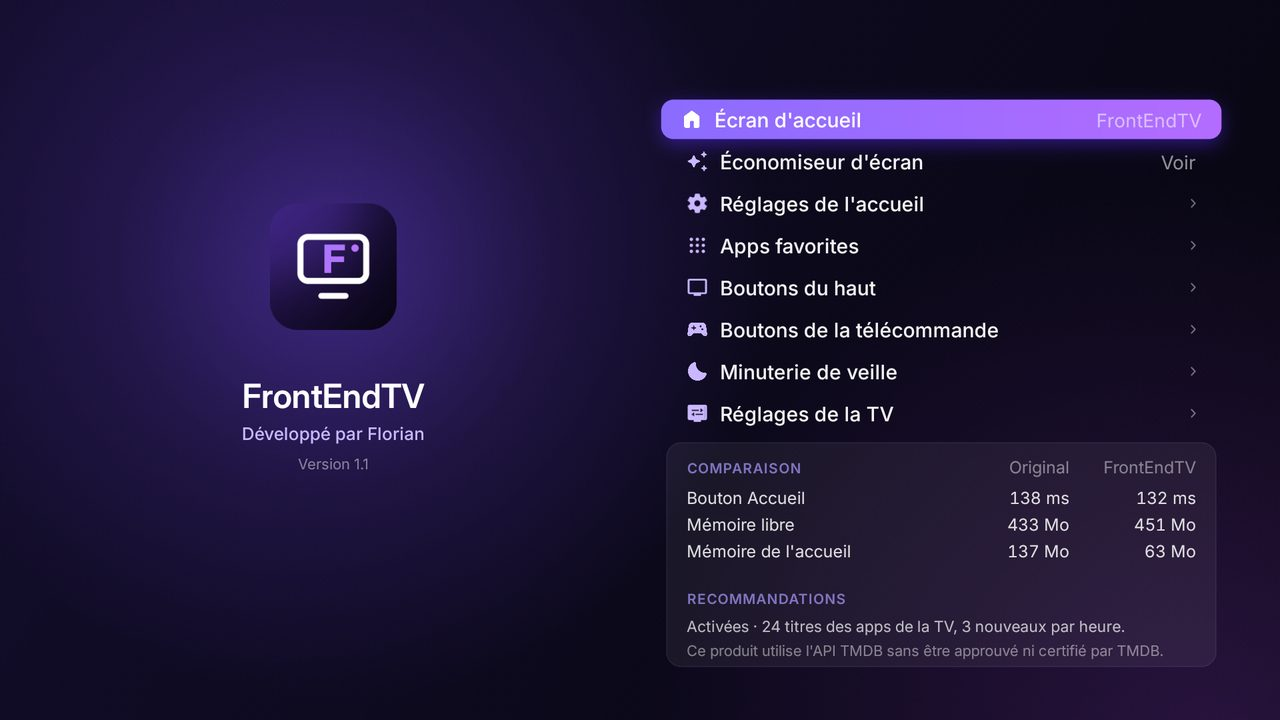
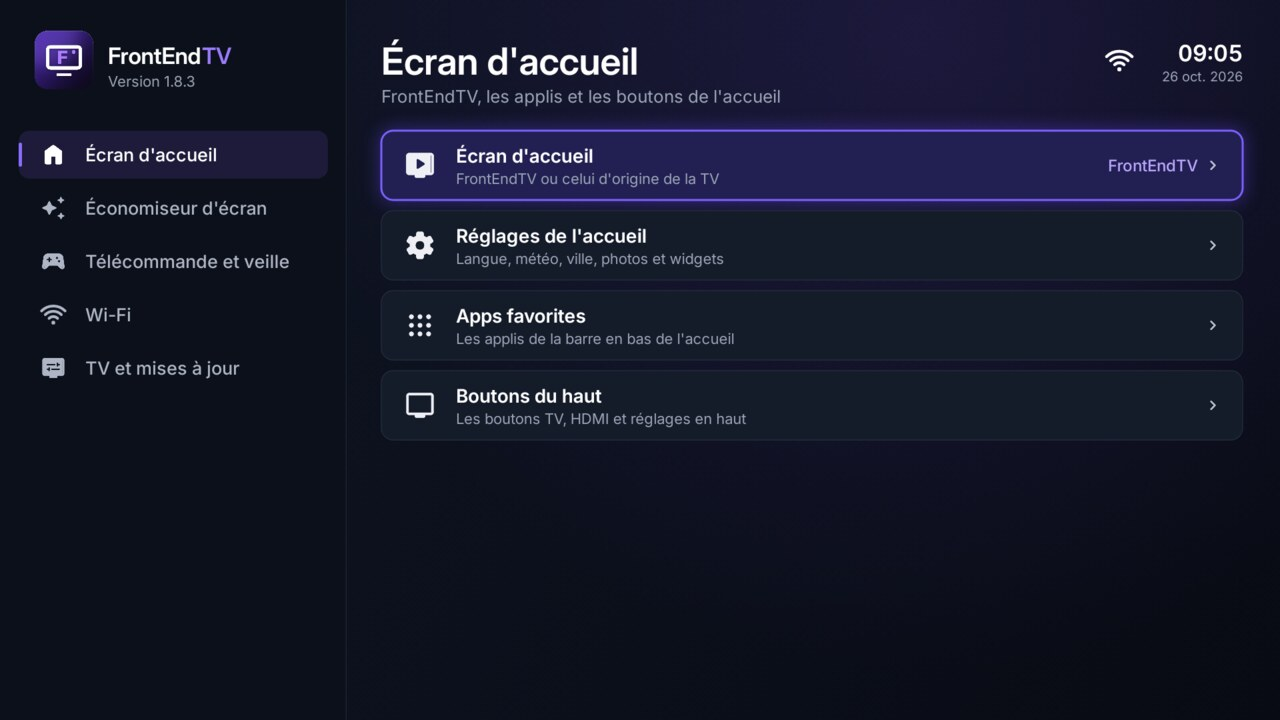
README : nouvelles captures (réglages, Wi-Fi, économiseur, installateur) ; 1.8.4
Captures des réglages rendues par le code de l'appli, celles de l'installateur
prises sur Windows par la compilation GitHub. Textes du README remis à jour
(liste des TV de l'installateur, mises à jour toutes les 30 min, chemin
TV et mises à jour, APK téléchargé par l'installateur). Installateur : le menu
des pays s'ouvre vers le haut s'il n'a pas la place en bas.

Claude-Session: https://claude.ai/code/session_01XRt4TK72g5zuN69rmcjn1v

diff --git a/installer/Program.cs b/installer/Program.cs
@@ -1533,7 +1533,14 @@ sealed class Picker : Control {
             box.SelectedIndex = selected;
             box.TopIndex = Math.Max(0, selected - rows / 2);
         }
-        drop.Show(this, new Point(0, Height + (int) (4 * scale)));
+        // Sous le champ, ou au-dessus s'il n'y a pas la place (petit écran, barre des tâches)
+        int gap = (int) (4 * scale), listH = box.Height + 2;
+        Rectangle area = Screen.FromControl(this).WorkingArea;
+        if (PointToScreen(new Point(0, Height + gap)).Y + listH > area.Bottom) {
+            drop.Show(this, new Point(0, -gap), ToolStripDropDownDirection.AboveRight);
+        } else {
+            drop.Show(this, new Point(0, Height + gap));
+        }
         box.Focus();
         Invalidate();
     }

diff --git a/README.md b/README.md
@@ -11,14 +11,33 @@ Développé par Florian.
   disponibles sur tes applis (onglets *Pour toi*, *Films*, *Séries*), avec le fond qui suit la carte sélectionnée.
 - **Dock d'applis** en verre translucide, avec les vrais logos (Netflix, YouTube, Prime Video, Disney+…).
 - **Tiroir du bas** : entrées HDMI, *Toutes les apps*, réglages, et la météo heure par heure.
+- **Bouton TV** bien visible en haut : la sélection s'y place à l'ouverture, pour passer à la télé d'un appui.
+  L'heure change avec une petite animation à chaque minute.
 - **Réglages de la TV** en un clic (l'engrenage en haut à droite).
+- **Touches de la télécommande** (Netflix, YouTube…) : reconnues toutes seules, même sur les marques que FrontEndTV ne
+  connaît pas (Philips…), et réglables pour ouvrir l'appli de ton choix.
 - Pensé pour les petites puces des TV : animations calées sur l'écran, seules les zones qui bougent sont redessinées.
 - Retire les applis publicitaires du constructeur (sans les désinstaller) et remplace l'économiseur d'écran.
   Tout revient comme avant en un clic (*Écran d'accueil* → *Original*).
 
-| Toutes les apps | Réglages |
+| Toutes les apps | Réglages de FrontEndTV |
 |---|---|
 | ![Toutes les apps](.github/captures/toutes-les-apps.jpg) | ![Réglages](.github/captures/reglages.jpg) |
+
+### Les réglages de FrontEndTV
+
+Rangés par catégories à gauche (*Écran d'accueil*, *Économiseur d'écran*, *Télécommande et veille*, *Wi-Fi*,
+*TV et mises à jour*) : à droite, seulement ceux de la catégorie choisie, chacun avec une phrase qui dit à quoi il sert.
+
+- **Wi-Fi** : le réseau de la TV et ceux autour ; OK sur un réseau, puis le mot de passe tapé à la télécommande
+  (Android 11 ou plus récent). L'icône Wi-Fi en haut à droite y mène aussi.
+- **Économiseur d'écran → Éteindre l'écran** : la TV se met en veille au lieu de laisser l'économiseur allumé
+  (tout de suite, ou après 5, 10, 15, 30 min ou 1 h).
+- **Minuterie de veille**, applis du dock, boutons du haut, langue, météo, photos…
+
+| Wi-Fi | Économiseur d'écran |
+|---|---|
+| ![Wi-Fi](.github/captures/wifi.jpg) | ![Économiseur d'écran](.github/captures/economiseur.jpg) |
 
 ## Installation automatique (Windows, 5 minutes)
 
@@ -27,10 +46,11 @@ Il faut une **Google TV ou Android TV** (Android 8 ou plus récent) et un **PC W
 1. **Sur la TV** (une seule fois)
    - *Paramètres → Système → À propos* : appuie **7 fois** sur *Build* (message « Vous êtes développeur »).
    - *Paramètres → Système → Options pour les développeurs* : active **Débogage USB**.
-2. **Sur le PC** : télécharge **`FrontEndTV-Installateur.exe`** dans [Releases](../../releases). Un seul fichier :
-   l'appli est dedans.
-3. Double-clique dessus. Il fait tout, seul (tu peux remplir ton prénom et ta clé TMDB avant que ça démarre) :
-   - **trouve la TV tout seul** (celle de la dernière fois, sinon il cherche sur le réseau, en continu) et
+2. **Sur le PC** : télécharge **`FrontEndTV-Installateur.exe`** dans [Releases](../../releases). Un seul fichier,
+   rien d'autre à installer.
+3. Double-clique dessus. Il fait tout, seul (tu peux remplir ton prénom, ton pays et ta clé TMDB avant que ça démarre) :
+   - **liste les TV de ton réseau** avec leur nom, leur marque et leur modèle, et dit si chacune est *Prête* ou s'il
+     faut encore activer le débogage ; il choisit seul celle de la dernière fois (ou la seule prête) et
      **démarre l'installation automatiquement** après quelques secondes ;
    - parle directement à la TV : rien d'autre à télécharger ni à installer, même pas les outils Android ;
    - installe l'appli (ou la met à jour ; rien à faire si elle est déjà à jour), envoie ton prénom, ton pays et ta
@@ -39,6 +59,8 @@ Il faut une **Google TV ou Android TV** (Android 8 ou plus récent) et un **PC W
 
    Sur la TV, accepte **« Autoriser le débogage USB ? »** en cochant *Toujours autoriser* : une fois pour le PC, et
    la première fois une seconde pour FrontEndTV. L'installateur te dit quand.
+
+![L'installateur : l'ouverture, le choix de la TV, l'installation](.github/captures/installateur.png)
 
 > Windows peut afficher « Windows a protégé votre ordinateur » (l'installateur n'est pas signé) : *Informations
 > complémentaires → Exécuter quand même*. L'installateur a besoin d'Internet la première fois : il télécharge l'appli
@@ -58,8 +80,9 @@ Pour changer de clé, de pays ou de prénom plus tard, relance simplement l'inst
 
 ## Mettre à jour
 
-Sur la TV : ouvre **FrontEndTV** (l'engrenage de l'accueil) → **Mise à jour**. S'il y a une nouvelle version, elle est
-affichée ; **OK** la télécharge et l'installe toute seule. FrontEndTV vérifie aussi de lui-même toutes les 6 heures.
+Sur la TV : ouvre **FrontEndTV** (l'engrenage de l'accueil) → **TV et mises à jour** → **Mise à jour**. S'il y a une
+nouvelle version, elle est affichée (avec un point orange à côté de la catégorie) ; **OK** la télécharge et l'installe
+toute seule. FrontEndTV vérifie aussi de lui-même toutes les 30 minutes.
 
 ## Revenir en arrière
 
@@ -69,7 +92,7 @@ applis désactivées reviennent exactement comme avant. Pour désinstaller : pas
 
 ## Compiler soi-même
 
-Il faut un JDK 17+, les outils Android en ligne de commande (build-tools 34 ou plus, platform android-34) et adb.
+Il faut un JDK 17+, les outils Android en ligne de commande (build-tools 36 conseillé, platform android-34) et adb.
 Sous Windows, utilise Git Bash ou WSL.
 
 ```bash
@@ -78,9 +101,10 @@ adb connect 192.168.1.50:5555
 adb install -r FrontEndTV.apk
 ```
 
-Sous Windows, `build.sh` crée aussi **`FrontEndTV-Installateur.exe`** (avec l'APK dedans) grâce au compilateur C#
-fourni avec Windows ; ailleurs, il faut Mono (`mcs`). Le code de l'installateur est dans `installer/` (`Adb.cs` : son
-propre client ADB, pour ne dépendre d'aucun outil externe).
+Sous Windows, `build.sh` crée aussi **`FrontEndTV-Installateur.exe`** grâce au compilateur C# fourni avec Windows ;
+ailleurs, il faut Mono (`mcs`). L'installateur prend `FrontEndTV.apk` à côté de lui, ou télécharge celui de sa version
+et vérifie son empreinte. Son code est dans `installer/` (`Adb.cs` : son propre client ADB, pour ne dépendre d'aucun
+outil externe ; `Discovery.cs` : la recherche des TV).
 
 - `config.properties` (clé TMDB, ville, pays, prénom…) et `freemytv.keystore` (la clé de signature créée au premier
   build) restent sur ton PC : ils sont exclus de Git. **Garde `freemytv.keystore`** : les mises à jour doivent être

diff --git a/.github/release-notes.md b/.github/release-notes.md
@@ -1,15 +1,6 @@
-## FrontEndTV 1.8.3 — corrections d'affichage
+## FrontEndTV 1.8.4
 
-**Sur la TV (réglages)**
-- Une longue erreur sous « Écran d'accueil » ne passe plus sous la valeur à droite : elle va à la ligne avant.
-- Le petit cercle qui tourne (téléchargement d'une mise à jour, bascule) ne touche plus le texte à côté.
-- Wi-Fi désactivé : l'aide dit maintenant d'activer le Wi-Fi.
-- Les textes en français tutoient partout (certains vouvoyaient encore).
-
-**Installateur Windows**
-- L'adresse IP de chaque TV reste toujours entière, même avec un très long nom de modèle.
-- Avec plus de trois TV, la barre de défilement a sa place et ne chevauche plus la TV choisie.
-- Le message « active le Débogage USB » n'est plus coupé, et l'étiquette « Adresse IP » ne mord plus sur le champ.
-- Après une réussite, le bouton « Réessayer » ne reste plus affiché.
+- **Installateur** : sur un petit écran, le menu des pays s'ouvre vers le haut au lieu de passer sous la barre des tâches.
+- La page GitHub montre les nouveaux écrans : réglages par catégories, Wi-Fi, économiseur d'écran, et l'installateur.
 
 **Mettre à jour** : sur la TV, Réglages de FrontEndTV → TV et mises à jour → *Mise à jour*. Ou télécharge `FrontEndTV-Installateur.exe` et double-clique dessus.
